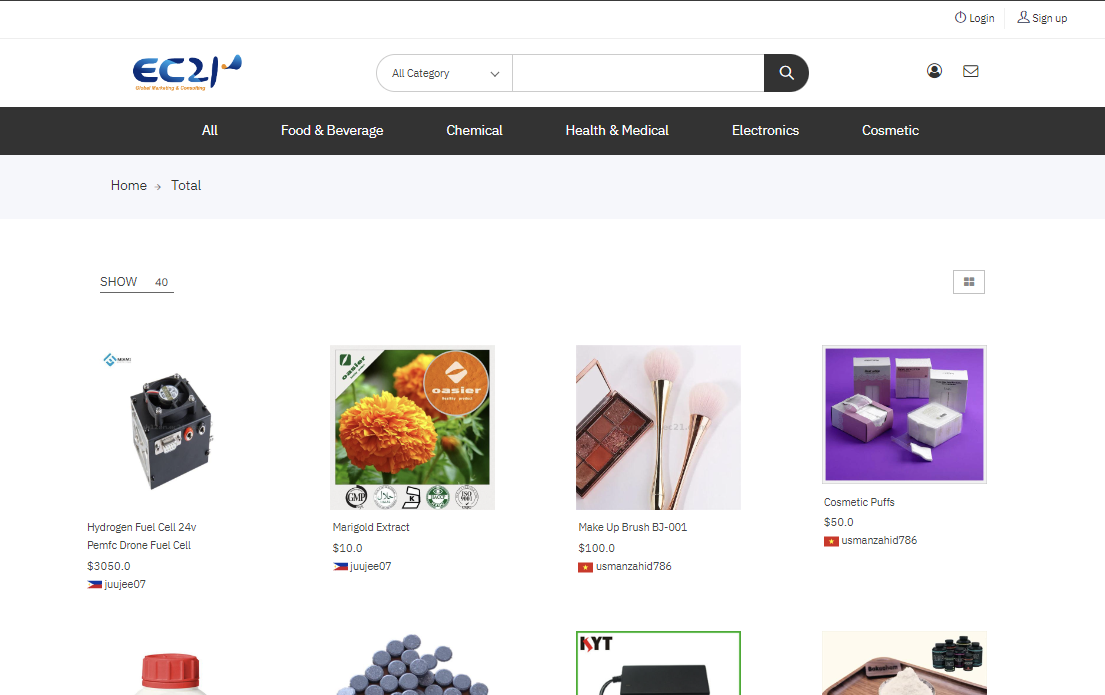
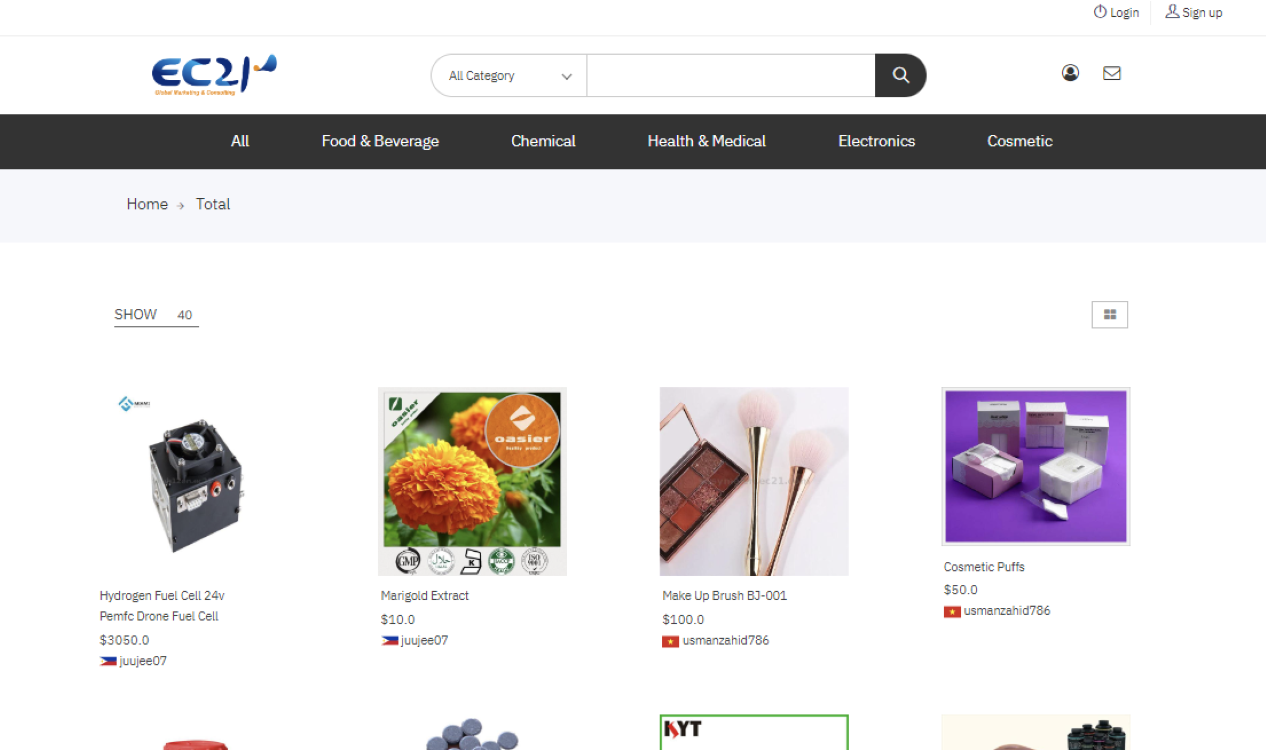
240721 readme 완성

diff --git a/README.md b/README.md
@@ -44,13 +44,14 @@
 
 <br/>
 
-## 아키텍쳐
-
+## 📋 아키텍쳐
+![아키텍쳐](readmeImg/architecture.jpeg)
 
 <br/>
 
-## 메인 기능
-### ⭐ 이상 상품 판별 
+## 🔒 메인 기능
+<!-- ### ⭐ 이상 상품 판별  -->
+### 🔑 이상 상품 판별 
 - 파이썬으로 개발한 딥러닝 분류 모델(LSTM)과 문자열 유사도(rapid Fuzzy)를 FastAPI 서버로 구현하여 스프링 서버와 연결
     - LSTM 모델 : 협업기업에서 받은 데이터들을 학습시킴 (정상상품 데이터 6만개, 이상상품 데이터 6만개)
     - Rapid Fuzzy : 협업기업에서 받은 금지어 목록을 기반으로 문자열 유사도 측정
@@ -58,7 +59,8 @@
     - 이상 판별 시, ① 관리자 판단 후 ② 상품 게시 or 이상 상품 처리
     - 정상 판별 시, 웹 페이지에 상품 게시
 
-### ⭐ 이상 회원 판별
+<!-- ### ⭐ 이상 회원 판별 -->
+### 🔑 이상 회원 판별
 - 상품에 대한 인콰이어리 전송 기능으로 인콰이어리를 보내면, 해당 상품을 판매하는 사용자는 인콰이어리함에서 받은 인콰이어리를 확인할 수 있음.
 - 만약 받은 인콰어리의 내용에 유해한 내용이 있거나 다발성 스팸 등의 경우에는 해당 인콰이어리를 보낸 회원 신고할 수 있음.
 - 신고된 회원은 관리자가 관리함.
@@ -69,10 +71,11 @@
 
 <br/>
 
-## 화면 구성
+## 📺 화면 구성
 
-| 메인 페이지 |  |
+|  |  |
 | ---- | ---- |
+| 메인 페이지 |  |
 | ![홈 화면](readmeImg/index.png) | ![상품 목록](readmeImg/list.png) |
 | 관리자 |  |
 | ![관리자 대시보드](readmeImg/manager.png) | ![이상상품 판별 결과](readmeImg/modelpredict.png)  |
